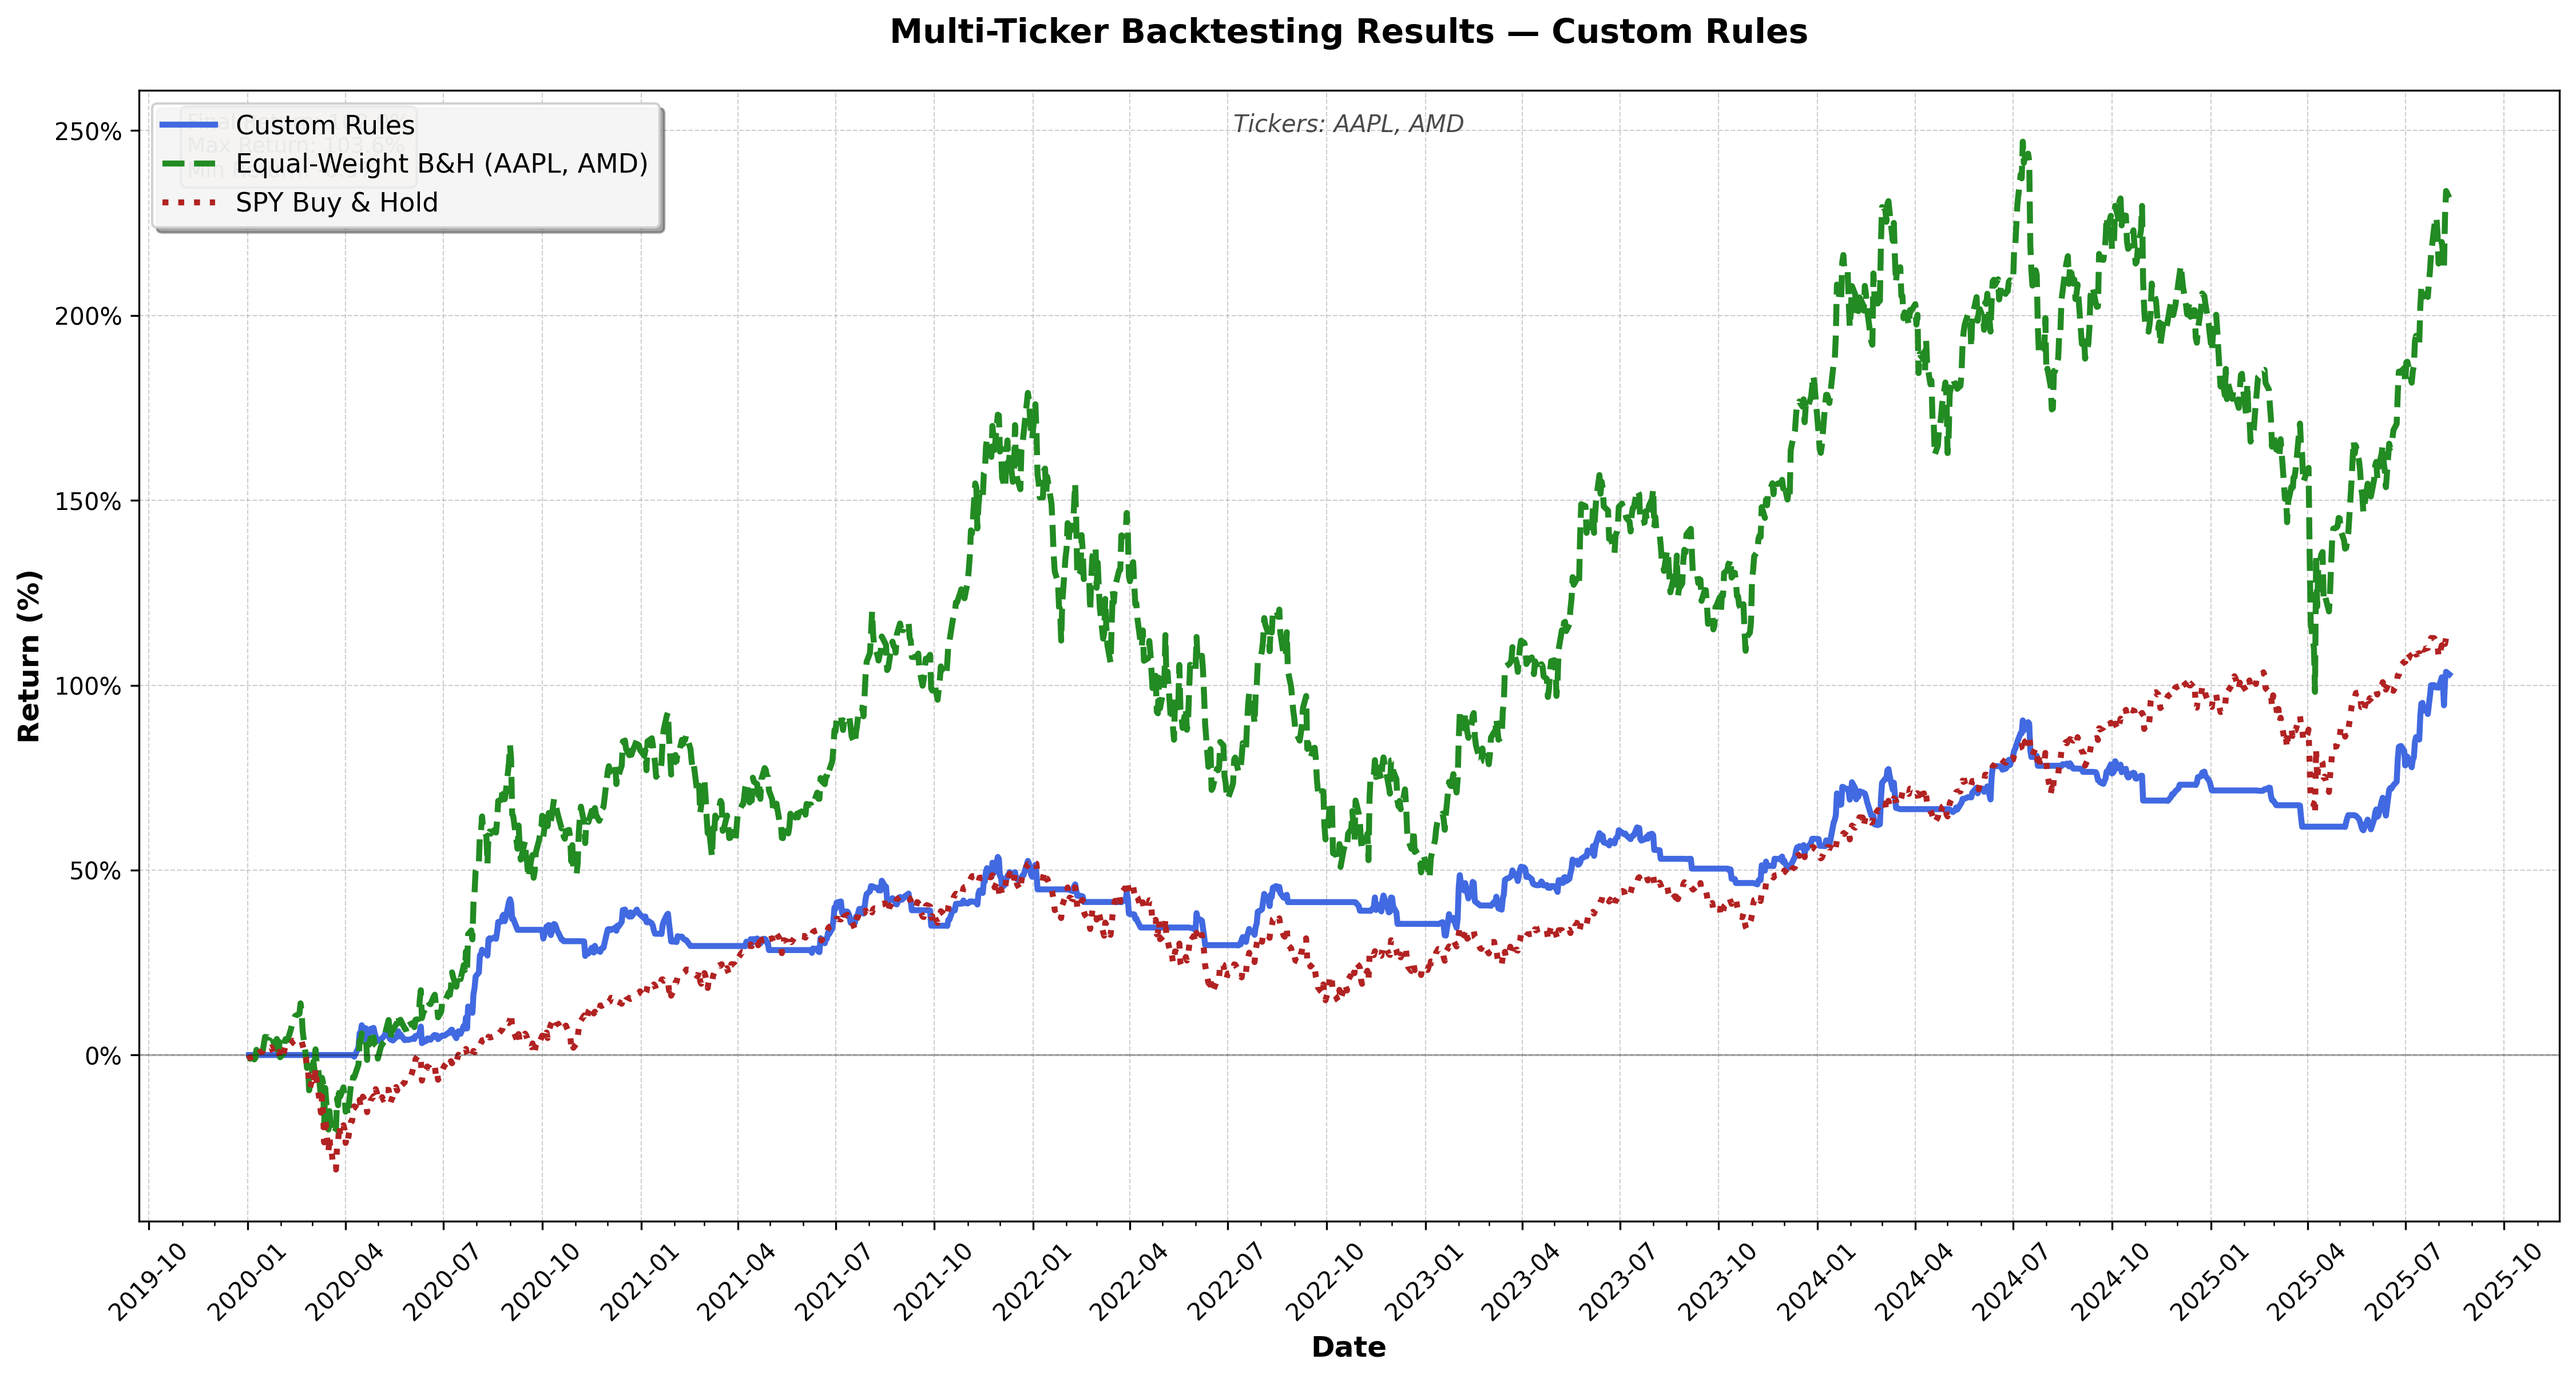
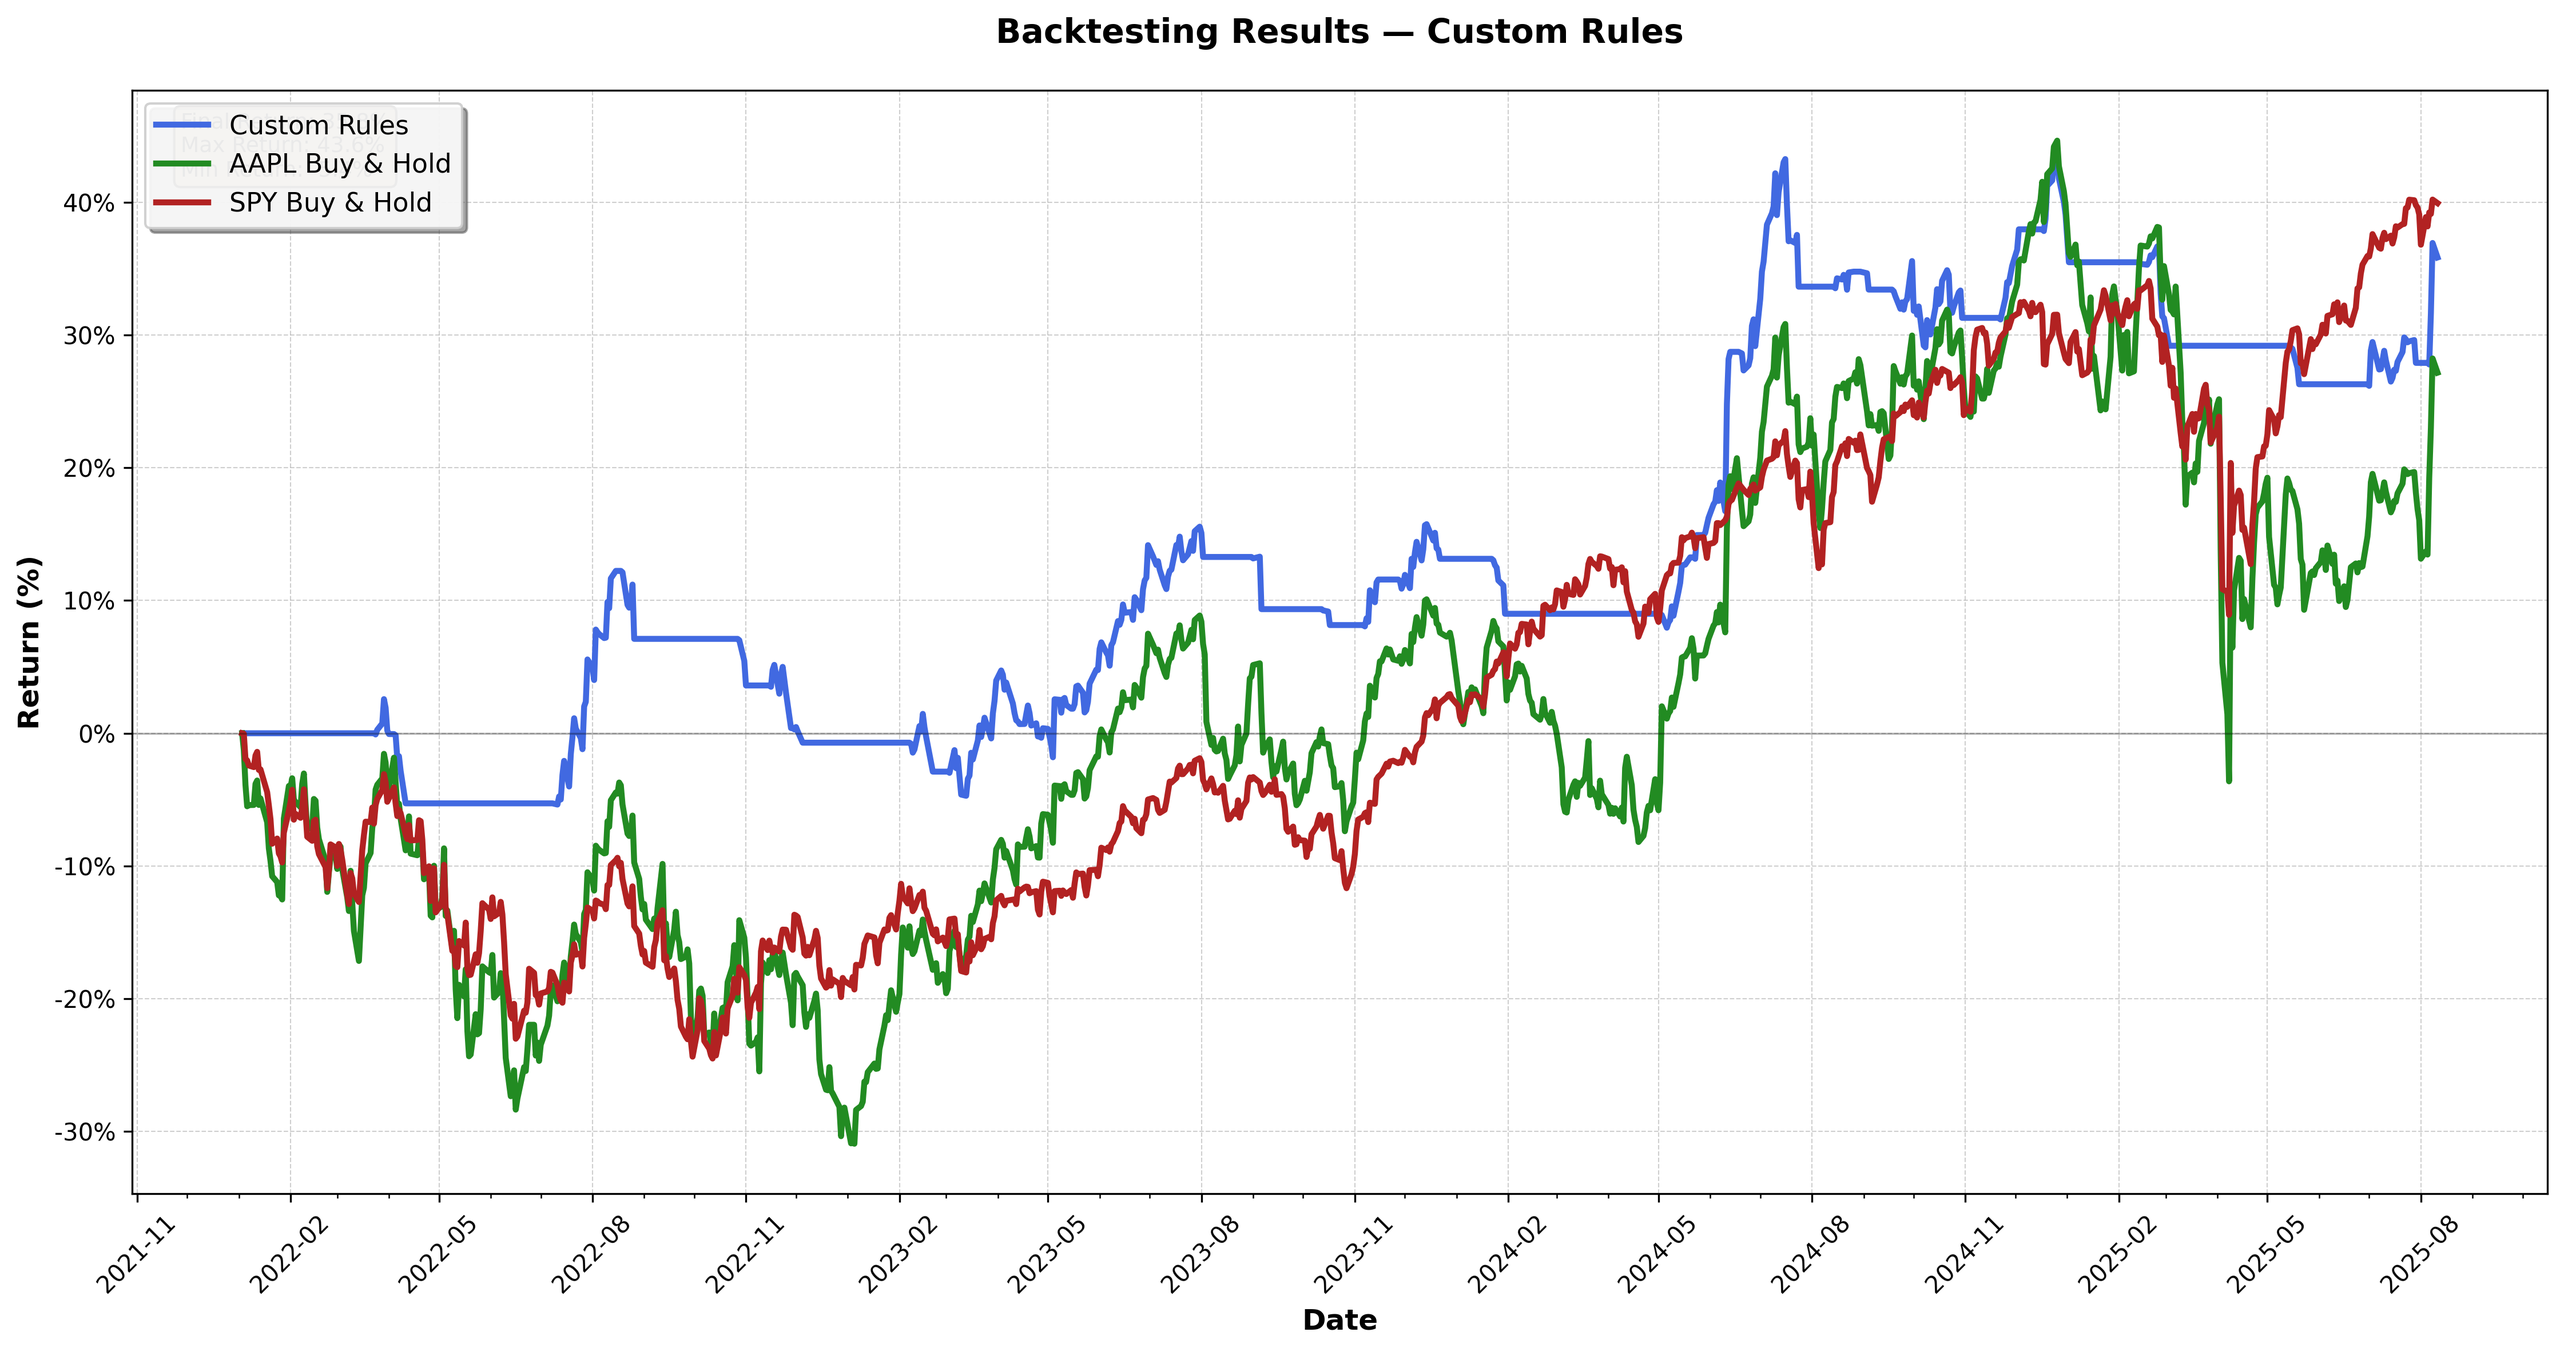
backup

diff --git a/app/backtesting/test_backtest.py b/app/backtesting/test_backtest.py
@@ -37,23 +37,17 @@ async def testing_strategy(tickers, start_date="2020-01-01", end_date=None, buy_
             # Multi-ticker results
             print(f"Tickers: {', '.join(result['tickers'])}")
             print(f"Total Return: {result['total_return']}%")
-            print(f"Multi-Ticker B&H Return: {result.get('multi_ticker_buy_hold_return', 'N/A')}%")
-            if 'multi_ticker_buy_hold_return' in result:
-                excess = result['total_return'] - result['multi_ticker_buy_hold_return']
-                print(f"Excess Return vs Equal-Weight B&H: {excess:+.2f}%")
+            print(f"Multi-Ticker Buy & Hold Return: {result.get('multi_ticker_buy_hold_return', 'N/A')}%")
         else:
             # Single ticker results
             print(f"Ticker: {result.get('ticker', 'N/A')}")
             print(f"Total Return: {result['total_return']}%")
             print(f"Buy & Hold Return: {result.get('buy_hold_return', 'N/A')}%")
-            if 'buy_hold_return' in result:
-                excess = result['total_return'] - result['buy_hold_return']
-                print(f"Excess Return vs B&H: {excess:+.2f}%")
         
         print(f"Sharpe Ratio: {result['sharpe_ratio']:.3f}")
         print(f"Sortino Ratio: {result.get('sortino_ratio', 'N/A'):.3f}" if isinstance(result.get('sortino_ratio'), (int, float)) else f"Sortino Ratio: {result.get('sortino_ratio', 'N/A')}")
-        print(f"Beta (vs SPY): {result.get('beta', 'N/A'):.3f}" if isinstance(result.get('beta'), (int, float)) else f"Beta (vs SPY): {result.get('beta', 'N/A')}")
-        print(f"Alpha (vs SPY): {result.get('alpha', 'N/A'):.3f}" if isinstance(result.get('alpha'), (int, float)) else f"Alpha (vs SPY): {result.get('alpha', 'N/A')}")
+        print(f"Beta: {result.get('beta', 'N/A'):.3f}" if isinstance(result.get('beta'), (int, float)) else f"Beta: {result.get('beta', 'N/A')}")
+        print(f"Alpha: {result.get('alpha', 'N/A'):.3f}" if isinstance(result.get('alpha'), (int, float)) else f"Alpha: {result.get('alpha', 'N/A')}")
         print(f"Final Value: ${result['final_portfolio_value']:,.2f}")
         print(f"Win Rate: {result['win_rate']}%")
         print(f"Total Trades: {result['total_trades']}")
@@ -77,26 +71,10 @@ async def testing_strategy(tickers, start_date="2020-01-01", end_date=None, buy_
         print(f"SPY Benchmark Data:")
         print(f"SPY Return: {spy_data['spy_return']}%")
         print(f"SPY Annual Return: {spy_data['spy_annual_return']}%")
-        print(f"SPY Period: {spy_data['spy_period']}")
-        print(f"SPY Data Points: {spy_data['spy_data_points']}")
-        print(f"Strategy vs SPY: {spy_data['vs_spy']}%")
 
 
     if result.get("plot_data"):
         plot_data = result['plot_data']
-        print("\nPlot data available:")
-        print(f"- Strategy data points: {len(plot_data.get('strategy', []))}")
-        
-        
-        # Check if it's multi-ticker or single ticker
-        if 'multi_ticker_buy_hold' in plot_data:
-            print(f"- Multi-ticker buy-hold data points: {len(plot_data.get('multi_ticker_buy_hold', []))}")
-            print(f"- Tickers: {', '.join(plot_data.get('tickers', []))}")
-        elif 'stock_buy_hold' in plot_data:
-            print(f"- Stock buy-hold data points: {len(plot_data.get('stock_buy_hold', []))}")
-        
-        print(f"- SPY benchmark data points: {len(plot_data.get('spy_benchmark', []))}")
-        
         # Create visualization
         create_performance_plot(plot_data, tickers, result.get('strategy_name', 'Strategy'))
 
@@ -128,19 +106,19 @@ def create_performance_plot(plot_data, tickers, strategy_name):
             dates = [datetime.strptime(item['date'], '%Y-%m-%d') for item in plot_data['multi_ticker_buy_hold']]
             returns = [item['return_pct'] for item in plot_data['multi_ticker_buy_hold']]
             tickers_list = plot_data.get('tickers', tickers)
-            ticker_label = f"Equal-Weight B&H ({', '.join(tickers_list)})" if len(tickers_list) <= 3 else f"Equal-Weight B&H ({len(tickers_list)} stocks)"
-            plt.plot(dates, returns, label=ticker_label, linewidth=2.5, color='forestgreen', linestyle='--')
+            ticker_label = f"Equal-Weight Buy & Hold ({', '.join(tickers_list)})" if len(tickers_list) <= 3 else f"Equal-Weight Buy & Hold ({len(tickers_list)} stocks)"
+            plt.plot(dates, returns, label=ticker_label, linewidth=2.5, color='forestgreen')
         elif 'stock_buy_hold' in plot_data and plot_data['stock_buy_hold']:
             # Single ticker buy-and-hold
             dates = [datetime.strptime(item['date'], '%Y-%m-%d') for item in plot_data['stock_buy_hold']]
             returns = [item['return_pct'] for item in plot_data['stock_buy_hold']]
-            plt.plot(dates, returns, label=f'{ticker_str} Buy & Hold', linewidth=2.5, color='forestgreen', linestyle='--')
+            plt.plot(dates, returns, label=f'{ticker_str} Buy & Hold', linewidth=2.5, color='forestgreen')
 
         # Plot SPY benchmark
         if 'spy_benchmark' in plot_data and plot_data['spy_benchmark']:
             dates = [datetime.strptime(item['date'], '%Y-%m-%d') for item in plot_data['spy_benchmark']]
             returns = [item['return_pct'] for item in plot_data['spy_benchmark']]
-            plt.plot(dates, returns, label='SPY Buy & Hold', linewidth=2.5, color='firebrick', linestyle=':')
+            plt.plot(dates, returns, label='SPY Buy & Hold', linewidth=2.5, color='firebrick')
 
         # Add horizontal line at 0% return
         plt.axhline(y=0, color='black', linestyle='-', alpha=0.3, linewidth=0.8)
@@ -149,17 +127,9 @@ def create_performance_plot(plot_data, tickers, strategy_name):
         plt.xlabel('Date', fontsize=12, weight='bold')
         plt.ylabel('Return (%)', fontsize=12, weight='bold')
         
-        # Dynamic title based on ticker type
-        if is_multi_ticker:
-            title = f'Multi-Ticker Backtesting Results — {strategy_name}'
-            subtitle = f'Tickers: {ticker_str}' if len(ticker_str) < 50 else f'{len(plot_data.get("tickers", []))} Tickers'
-        else:
-            title = f'{ticker_str} Backtesting Results — {strategy_name}'
-            subtitle = 'Single Ticker Analysis'
+        title = f'Backtesting Results — {strategy_name}'
         
         plt.title(title, fontsize=14, weight='bold', pad=20)
-        plt.text(0.5, 0.98, subtitle, transform=plt.gca().transAxes, 
-                ha='center', va='top', fontsize=10, style='italic', alpha=0.7)
         
         # Enhanced legend with better positioning
         plt.legend(frameon=True, loc='upper left', fontsize=11, 
@@ -195,26 +165,7 @@ def create_performance_plot(plot_data, tickers, strategy_name):
         filename="plot.png"
         
         plt.savefig(filename, dpi=300, bbox_inches='tight')
-        
-        # Also display performance summary
-        print(f"Performance Summary:")
-        if 'strategy' in plot_data and plot_data['strategy']:
-            strategy_final = plot_data['strategy'][-1]['return_pct']
-            print(f"   Strategy Final Return: {strategy_final:.2f}%")
-        
-        if is_multi_ticker and 'multi_ticker_buy_hold' in plot_data and plot_data['multi_ticker_buy_hold']:
-            bh_final = plot_data['multi_ticker_buy_hold'][-1]['return_pct']
-            print(f"   Multi-Ticker B&H Return: {bh_final:.2f}%")
-            if 'strategy' in plot_data:
-                excess = strategy_final - bh_final
-                print(f"   Excess Return: {excess:+.2f}%")
-        elif 'stock_buy_hold' in plot_data and plot_data['stock_buy_hold']:
-            bh_final = plot_data['stock_buy_hold'][-1]['return_pct']
-            print(f"   Stock Buy & Hold Return: {bh_final:.2f}%")
-
-        if 'spy_benchmark' in plot_data and plot_data['spy_benchmark']:
-            spy_final = plot_data['spy_benchmark'][-1]['return_pct']
-            print(f"   SPY Benchmark Return: {spy_final:.2f}%")
+    
     except Exception as e:
         print(e)
 
@@ -222,8 +173,8 @@ def create_performance_plot(plot_data, tickers, strategy_name):
 async def main():
 
     data = {
-      "tickers": ["AAPL","AMD"],  # Sophisticated multi-indicator strategy
-      "start_date": '2020-01-01',
+      "tickers": ["AAPL"],  # Sophisticated multi-indicator strategy
+      "start_date": '2022-01-01',
       "end_date": '2025-08-30',  # Full range
       "buy_condition": [
         # Trend Following: Price momentum above 50-day MA
